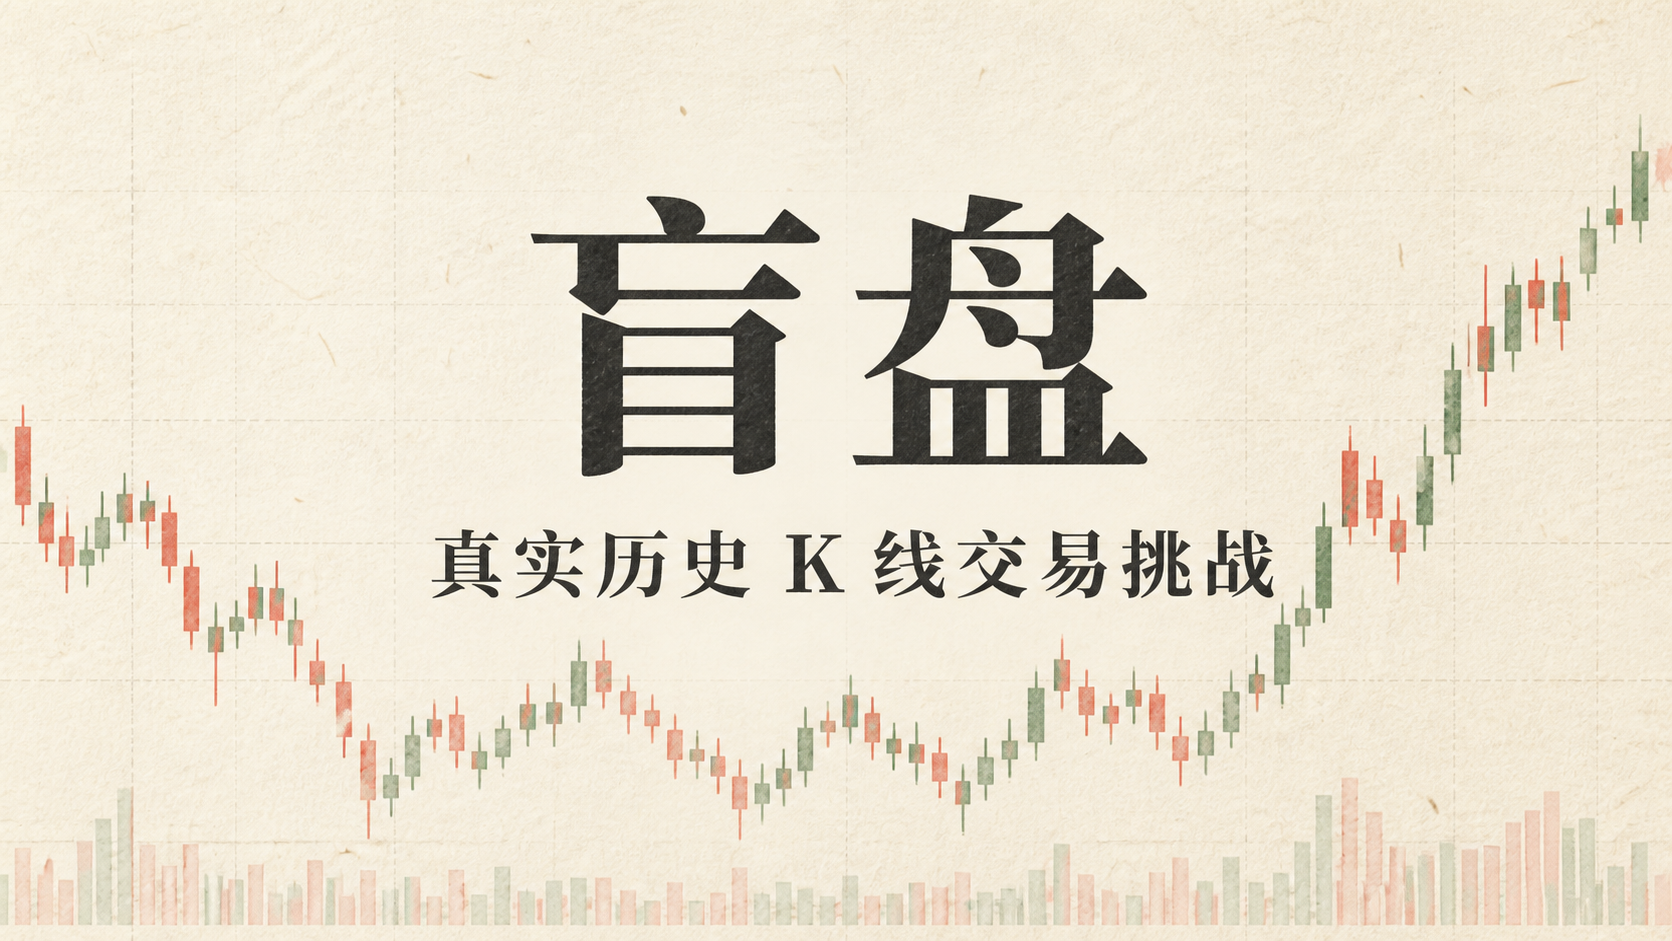
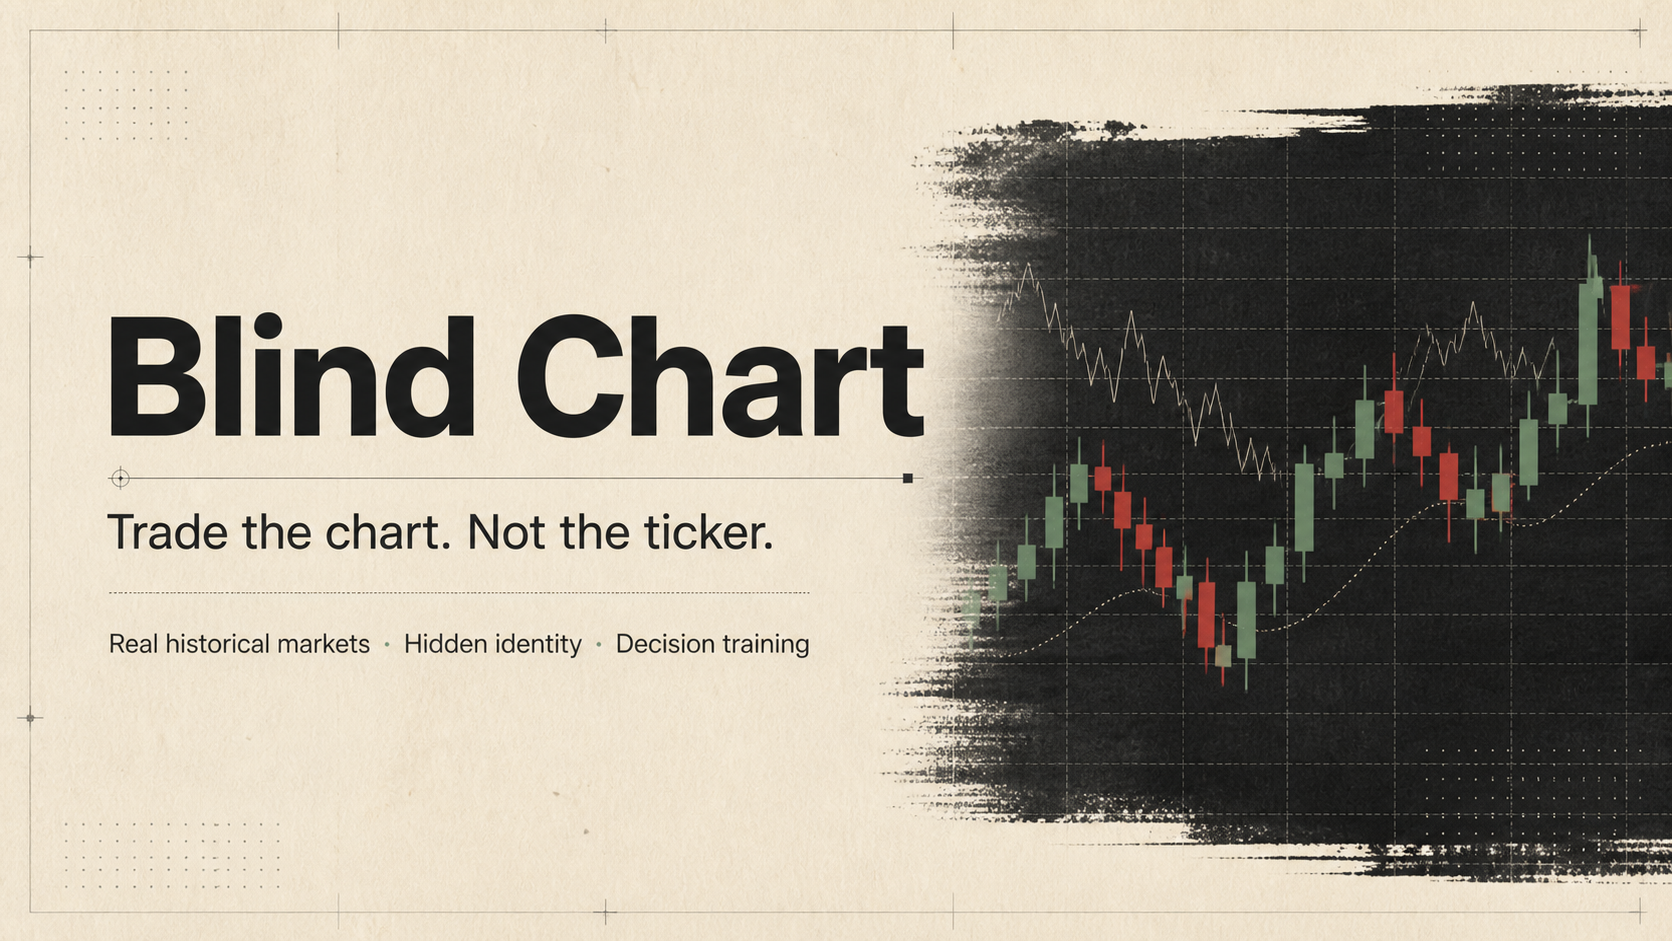
feat: prepare international launch

diff --git a/app/game-client.tsx b/app/game-client.tsx
@@ -23,11 +23,6 @@ import {
 import { buildTradeAnalysis } from "./trade-analysis";
 import { Localized, type Locale } from "./i18n";
 
-const nf = new Intl.NumberFormat("zh-CN", {
-  minimumFractionDigits: 2,
-  maximumFractionDigits: 2,
-});
-const shareNf = new Intl.NumberFormat("zh-CN", { maximumFractionDigits: 0 });
 const delay = (ms: number) =>
   new Promise((resolve) => window.setTimeout(resolve, ms));
 
@@ -1130,14 +1125,14 @@ export default function GameClient({
   initialChallenges: InitialChallenges;
   initialIdentity: { playerId: string; cloud: true } | null;
 }) {
-  const today = initialChallenges.cn.date;
-  const [locale, setLocale] = useState<Locale>("zh");
-  const [market, setMarket] = useState<MarketKind>("cn");
+  const today = initialChallenges.us.date;
+  const [locale, setLocale] = useState<Locale>("en");
+  const [market, setMarket] = useState<MarketKind>("us");
   const [gameMode, setGameMode] = useState<GameMode>("daily");
-  const [session, setSession] = useState(initialChallenges.cn);
-  const [stock, setStock] = useState(initialChallenges.cn.stock);
+  const [session, setSession] = useState(initialChallenges.us);
+  const [stock, setStock] = useState(initialChallenges.us.stock);
   const [visibleCount, setVisibleCount] = useState(() =>
-      initialBarsFor(initialChallenges.cn.stock),
+      initialBarsFor(initialChallenges.us.stock),
     ),
     [round, setRound] = useState(0);
   const [cash, setCash] = useState(INITIAL_CASH),
@@ -1202,11 +1197,7 @@ export default function GameClient({
   const initialUrlHandledRef = useRef(false);
   useEffect(() => {
     const saved = localStorage.getItem("mangpan-locale");
-    const detected: Locale = saved === "en" || saved === "zh"
-      ? saved
-      : navigator.language.toLowerCase().startsWith("zh")
-        ? "zh"
-        : "en";
+    const detected: Locale = saved === "zh" ? "zh" : "en";
     const timer = window.setTimeout(() => setLocale(detected), 0);
     document.documentElement.lang = detected === "zh" ? "zh-CN" : "en";
     document.title = detected === "zh"
@@ -1222,6 +1213,19 @@ export default function GameClient({
       ? "盲盘｜真实历史 K 线交易挑战"
       : "Blind Chart | Real Historical Candlestick Challenge";
   };
+  const numberLocale = locale === "en" ? "en-US" : "zh-CN";
+  const nf = useMemo(
+    () =>
+      new Intl.NumberFormat(numberLocale, {
+        minimumFractionDigits: 2,
+        maximumFractionDigits: 2,
+      }),
+    [numberLocale],
+  );
+  const shareNf = useMemo(
+    () => new Intl.NumberFormat(numberLocale, { maximumFractionDigits: 0 }),
+    [numberLocale],
+  );
   const marketLabel = market === "cn" ? "A股" : "美股";
   const scenarioLabel = (
     {
@@ -2293,7 +2297,7 @@ export default function GameClient({
             <span>
               {session.resumed ? "已恢复云端进度 · " : ""}
               已推进 {advancedDays} 个交易日 · 尚有{" "}
-              {remainingDays.toLocaleString("zh-CN")} 个交易日 · 可随时结束
+              {remainingDays.toLocaleString(numberLocale)} 个交易日 · 可随时结束
             </span>
           </div>
           <div className="price-block">
@@ -2657,9 +2661,15 @@ export default function GameClient({
         </aside>
       </section>
       <footer className="source-note">
-        A股 {initialChallenges.cn.universeSize.toLocaleString("zh-CN")}{" "}
-        只全市场股票池 · 美股 {initialChallenges.us.universeSize} 只 ·
-        每局按需加载真实日线 · 不构成投资建议
+        <span>
+          A股 {initialChallenges.cn.universeSize.toLocaleString(numberLocale)}{" "}
+          只全市场股票池 · 美股 {initialChallenges.us.universeSize} 只 ·
+          每局按需加载真实日线 · 不构成投资建议
+        </span>
+        <nav aria-label="Legal">
+          <a href="/privacy" target="_blank" rel="noreferrer">隐私政策</a>
+          <a href="/terms" target="_blank" rel="noreferrer">服务条款</a>
+        </nav>
       </footer>
 
       {trainingOpen && (
@@ -2947,7 +2957,7 @@ export default function GameClient({
                 <b>市场</b>
                 <span>
                   可随时选择 A 股或美股；A 股从{" "}
-                  {initialChallenges.cn.universeSize.toLocaleString("zh-CN")}{" "}
+                  {initialChallenges.cn.universeSize.toLocaleString(numberLocale)}{" "}
                   只全市场股票池中抽取。
                 </span>
               </li>
@@ -3723,7 +3733,7 @@ export default function GameClient({
               本局走到：{stock.candles[initialVisibleCount - 1].date} —{" "}
               {stock.candles[visibleCount - 1].date} · 完整数据：
               {stock.candles[0].date} — {stock.candles.at(-1)?.date}（
-              {stock.candles.length.toLocaleString("zh-CN")} 根）· 共 {trades}{" "}
+              {stock.candles.length.toLocaleString(numberLocale)} 根）· 共 {trades}{" "}
               次交易 · 成本 {currencySymbol}
               {nf.format(feesPaid + slippagePaid)}
             </div>

diff --git a/app/globals.css b/app/globals.css
@@ -92,3 +92,6 @@ dialog.modal-backdrop{width:100%;height:100%;max-width:none;max-height:none;marg
 
 /* Optional market-view journal: trading never requires a prediction */
 .decision-journal.optional{margin-top:7px;padding:0;border-color:#dfdcd4;background:#faf9f6;overflow:hidden}.decision-journal.optional.active{border-color:#c9c6bc;background:#fffdf9}.optional-view-head{min-height:45px;padding:8px 10px;display:flex;align-items:center;justify-content:space-between;gap:10px}.optional-view-head>div{min-width:0}.optional-view-head span,.optional-view-head small{display:block}.optional-view-head span{font-size:9px;font-weight:750}.optional-view-head span em{margin-left:4px;padding:2px 5px;border-radius:99px;background:#e8e5de;color:#77756e;font-size:6px;font-style:normal;font-weight:700}.optional-view-head small{margin-top:3px;overflow:hidden;color:#99968e;font-size:7px;line-height:1.35;text-overflow:ellipsis;white-space:nowrap}.optional-view-head>button{flex:0 0 auto;height:27px;padding:0 9px;border:1px solid #d2cec5;border-radius:6px;background:#fff;color:#55564f;font-size:7px;font-weight:750;cursor:pointer}.optional-view-head>button:hover{border-color:#77786f}.optional-view-fields{padding:8px 10px 9px;border-top:1px solid #e7e3da;background:#faf8f3}.optional-view-fields>p{margin:6px 0 0;color:#918e86;font-size:7px;line-height:1.45}.decision-timeline article.unrated>i{background:#e7e4dd;color:#7b7972}.decision-timeline article.unrated>strong{color:#8c8982}.decision-timeline article.unrated p{color:#aaa69d}@media(min-width:851px){.decision-journal.optional{margin-top:5px}.optional-view-head{min-height:39px;padding-block:6px}.optional-view-fields{padding-block:6px}}@media(max-width:420px){.optional-view-head small{max-width:185px}}
+
+/* International launch footer and public policy pages */
+.source-note{display:flex;align-items:center;justify-content:center;gap:12px}.source-note nav{display:flex;gap:8px}.source-note a{color:#8d8a82;text-decoration:none}.source-note a:hover{color:var(--ink);text-decoration:underline;text-underline-offset:2px}.legal-shell{min-height:100vh;padding:48px 22px;background:var(--paper)}.legal-card{width:min(760px,100%);margin:0 auto;padding:42px;border:1px solid var(--line);border-radius:18px;background:var(--panel);box-shadow:0 18px 60px rgba(34,32,25,.06)}.legal-back{color:var(--muted);font-size:12px;text-decoration:none}.legal-back:hover{color:var(--ink)}.legal-card h1{margin:28px 0 8px;font-size:36px;letter-spacing:-.035em}.legal-updated{margin:0 0 30px;color:var(--muted);font-size:12px}.legal-card section{margin-top:26px}.legal-card h2{margin:0 0 8px;font-size:17px}.legal-card p,.legal-card li{color:#55564f;font-size:14px;line-height:1.7}.legal-card ul{padding-left:20px}.legal-card a{color:var(--ink)}.legal-note{margin-top:34px!important;padding-top:20px;border-top:1px solid var(--line);color:#8d8a82!important;font-size:12px!important}@media(max-width:560px){.source-note{align-items:flex-start;flex-direction:column;gap:4px;text-align:left}.legal-shell{padding:20px 12px}.legal-card{padding:26px 20px;border-radius:13px}.legal-card h1{font-size:29px}}

diff --git a/app/privacy/page.tsx b/app/privacy/page.tsx
@@ -1,0 +1,60 @@
+import type { Metadata } from "next";
+import LegalPage from "../legal-page";
+
+export const metadata: Metadata = {
+  title: "Privacy | Blind Chart",
+  description: "How Blind Chart handles account, gameplay, and device data.",
+};
+
+export default function PrivacyPage() {
+  return (
+    <LegalPage title="Privacy Policy">
+      <section>
+        <h2>What we collect</h2>
+        <p>
+          Blind Chart stores the player name you choose, gameplay decisions,
+          scores, training progress, challenge participation, and related
+          timestamps. If you use Sign in with ChatGPT, the hosting platform
+          provides an account identifier so progress can sync; Blind Chart stores
+          a one-way derived player identifier rather than the original account ID.
+        </p>
+      </section>
+      <section>
+        <h2>Data on your device</h2>
+        <p>
+          Local storage keeps your language preference, anonymous player ID,
+          player name, active-session reference, and training progress so the game
+          can resume on the same device. You can remove this data through your
+          browser settings.
+        </p>
+      </section>
+      <section>
+        <h2>How data is used</h2>
+        <ul>
+          <li>Operate sessions, leaderboards, training, and friend challenges.</li>
+          <li>Prevent duplicate or manipulated score submissions.</li>
+          <li>Maintain reliability, security, and product performance.</li>
+        </ul>
+        <p>We do not sell personal information or use it to execute trades.</p>
+      </section>
+      <section>
+        <h2>Public information</h2>
+        <p>
+          Your chosen player name, score, return, and ranking may appear on public
+          leaderboards. Do not use a player name that reveals information you do
+          not want to make public.
+        </p>
+      </section>
+      <section>
+        <h2>Service providers and contact</h2>
+        <p>
+          The service relies on OpenAI Sites and Cloudflare infrastructure for
+          hosting, authentication, storage, security, and delivery. To ask a
+          privacy question or request deletion of associated gameplay data, open
+          an issue in the project&apos;s{" "}
+          <a href="https://github.com/ZYX121212/mangpan/issues">GitHub tracker</a>.
+        </p>
+      </section>
+    </LegalPage>
+  );
+}

diff --git a/app/layout.tsx b/app/layout.tsx
@@ -15,18 +15,37 @@ const geistMono = Geist_Mono({
 
 export const metadata: Metadata = {
   metadataBase: new URL("https://mangpan-kline-game.hiayun.chatgpt.site"),
-  title: "盲盘｜真实历史 K 线交易挑战",
-  description: "在不知道股票身份与日期的情况下，用真实历史 K 线完成一场交易挑战。",
+  title: "Blind Chart | Real Historical Trading Challenge",
+  description:
+    "Trade real historical candlestick charts without seeing the ticker, date, or future price action. Practice decisions, risk, and execution.",
+  keywords: [
+    "stock trading game",
+    "candlestick chart challenge",
+    "trading simulator",
+    "market training",
+    "historical stock charts",
+  ],
+  alternates: { canonical: "/" },
+  robots: { index: true, follow: true },
   openGraph: {
-    title: "盲盘｜真实历史 K 线交易挑战",
-    description: "只看走势，不看答案。用真实历史 K 线完成一场交易挑战。",
+    title: "Blind Chart | Trade the chart, not the ticker",
+    description:
+      "Make trading decisions on real historical charts with the ticker, dates, and future price action hidden.",
     type: "website",
-    images: [{ url: "/og.png", width: 1672, height: 941, alt: "盲盘｜真实历史 K 线交易挑战" }],
+    images: [
+      {
+        url: "/og.png",
+        width: 1672,
+        height: 941,
+        alt: "Blind Chart — Trade the chart, not the ticker",
+      },
+    ],
   },
   twitter: {
     card: "summary_large_image",
-    title: "盲盘｜真实历史 K 线交易挑战",
-    description: "只看走势，不看答案。用真实历史 K 线完成一场交易挑战。",
+    title: "Blind Chart | Trade the chart, not the ticker",
+    description:
+      "A trading decision game built from real historical candlestick charts.",
     images: ["/og.png"],
   },
   icons: {
@@ -41,7 +60,7 @@ export default function RootLayout({
   children: React.ReactNode;
 }>) {
   return (
-    <html lang="zh-CN">
+    <html lang="en">
       <body
         className={`${geistSans.variable} ${geistMono.variable} antialiased`}
       >

diff --git a/app/terms/page.tsx b/app/terms/page.tsx
@@ -1,0 +1,56 @@
+import type { Metadata } from "next";
+import LegalPage from "../legal-page";
+
+export const metadata: Metadata = {
+  title: "Terms | Blind Chart",
+  description: "Terms for using the Blind Chart trading decision game.",
+};
+
+export default function TermsPage() {
+  return (
+    <LegalPage title="Terms of Use">
+      <section>
+        <h2>Educational use only</h2>
+        <p>
+          Blind Chart is a decision-training game based on historical market data.
+          It does not provide investment advice, recommendations, brokerage
+          services, or assurances about future performance. Historical results do
+          not predict future results.
+        </p>
+      </section>
+      <section>
+        <h2>Simulation limits</h2>
+        <p>
+          Prices, fees, slippage, liquidity, execution, scoring, and portfolio
+          results are simplified simulation assumptions. They may differ from
+          real trading and should not be used as the basis for an investment
+          decision.
+        </p>
+      </section>
+      <section>
+        <h2>Acceptable use</h2>
+        <ul>
+          <li>Do not manipulate scores, overload the service, or bypass controls.</li>
+          <li>Do not submit unlawful, misleading, or impersonating player names.</li>
+          <li>Do not copy or redistribute market data unless you have the rights.</li>
+        </ul>
+      </section>
+      <section>
+        <h2>Availability and changes</h2>
+        <p>
+          The game is provided as available and may change, pause, reset scores,
+          or remove abusive content. Features and historical datasets may be
+          corrected or withdrawn without notice.
+        </p>
+      </section>
+      <section>
+        <h2>Your responsibility</h2>
+        <p>
+          You remain responsible for your financial decisions and for complying
+          with laws that apply to you. Stop using the service if you do not agree
+          with these terms.
+        </p>
+      </section>
+    </LegalPage>
+  );
+}

diff --git a/app/i18n.tsx b/app/i18n.tsx
@@ -144,6 +144,8 @@ const ENGLISH: Record<string, string> = {
   "只全市场股票池": " stocks in the full-market universe",
   "每局按需加载真实日线": "Real daily data loaded on demand",
   "不构成投资建议": "Not investment advice",
+  "隐私政策": "Privacy",
+  "服务条款": "Terms",
   "针对性训练": "Focused Training",
   "今天想练哪一种行情？": "What market condition do you want to practice?",
   "系统从真实历史中筛选典型片段。你会提前看到训练目标，但股票身份、日期和后续走势仍然隐藏。": "The system selects representative periods from real market history. You see the objective in advance, while the stock, dates, and future price action remain hidden.",

diff --git a/app/legal-page.tsx b/app/legal-page.tsx
@@ -1,0 +1,27 @@
+import type { ReactNode } from "react";
+import Link from "next/link";
+
+export default function LegalPage({
+  title,
+  children,
+}: {
+  title: string;
+  children: ReactNode;
+}) {
+  return (
+    <main className="legal-shell">
+      <article className="legal-card">
+        <Link className="legal-back" href="/">
+          ← Back to Blind Chart
+        </Link>
+        <h1>{title}</h1>
+        <p className="legal-updated">Effective August 30, 2026</p>
+        {children}
+        <p className="legal-note">
+          Blind Chart is an independent educational project. It is not a broker,
+          exchange, investment adviser, or trading signal service.
+        </p>
+      </article>
+    </main>
+  );
+}
